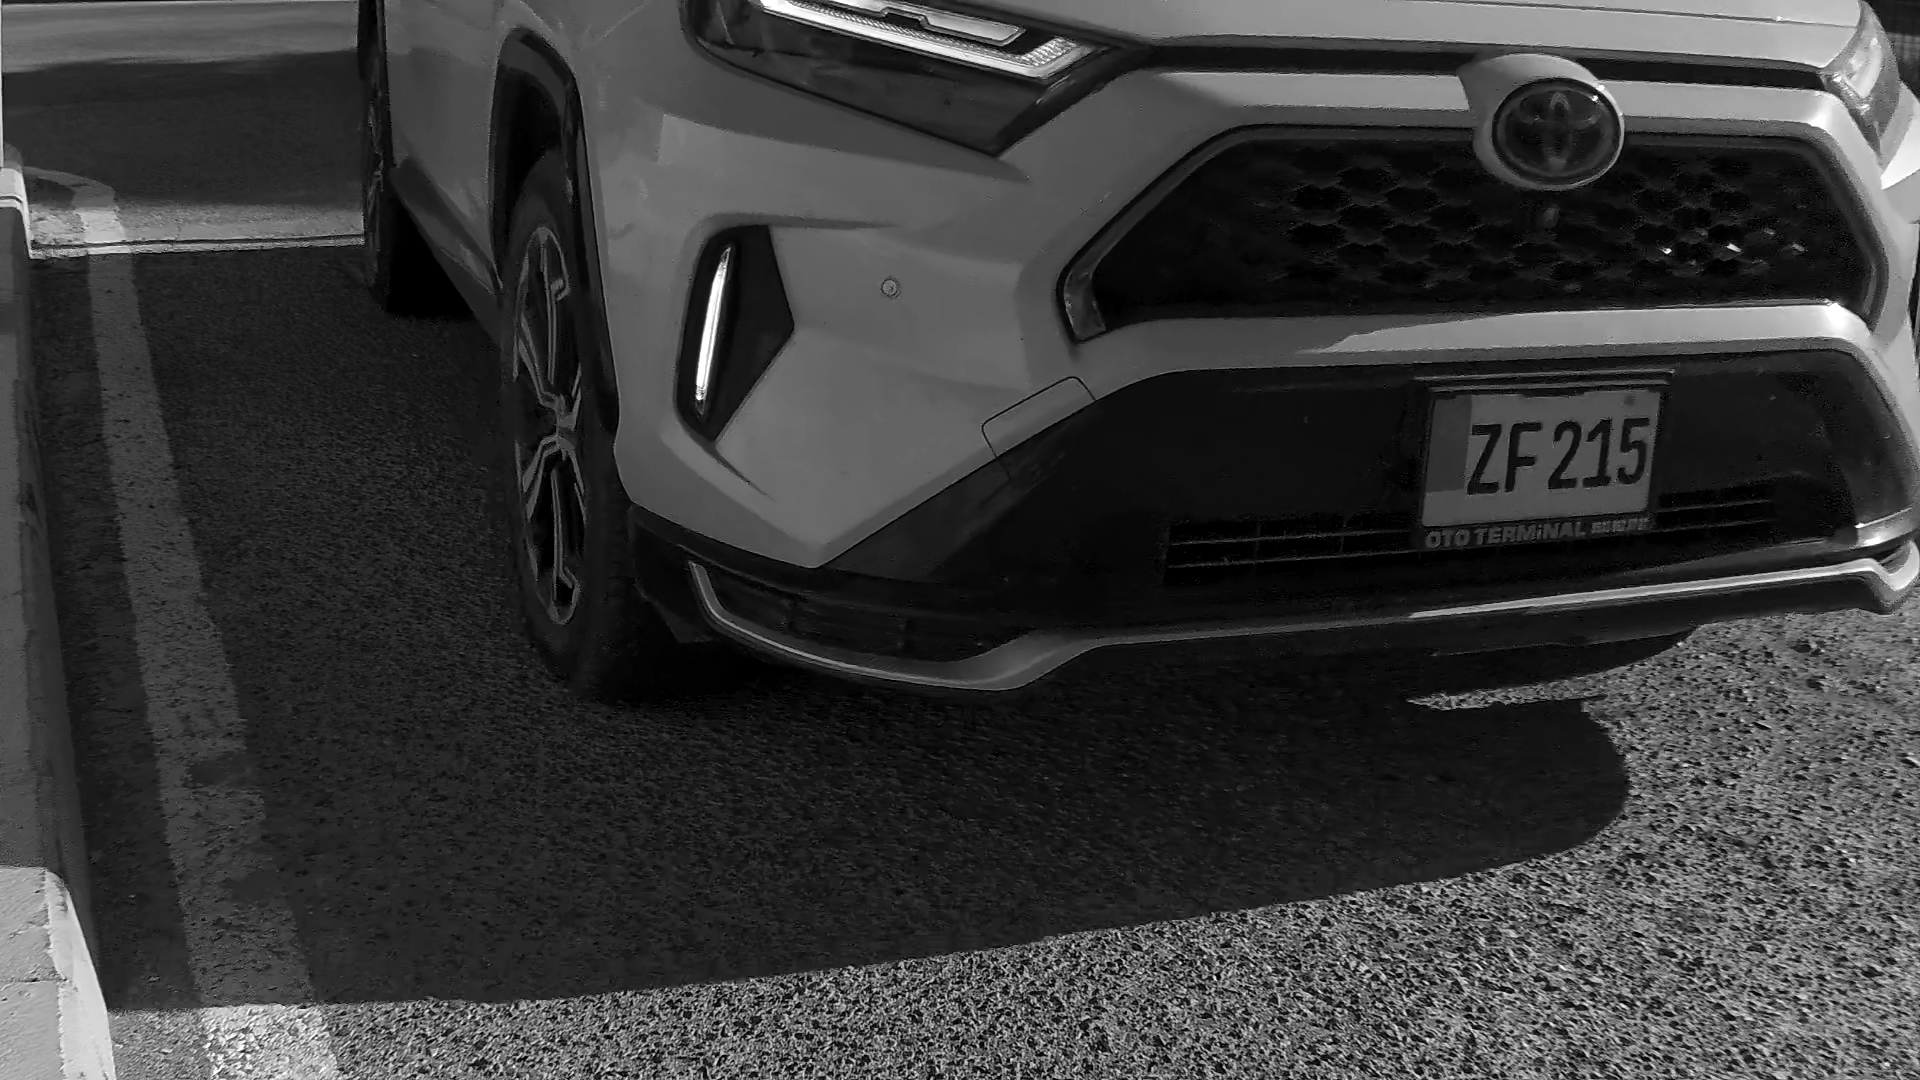
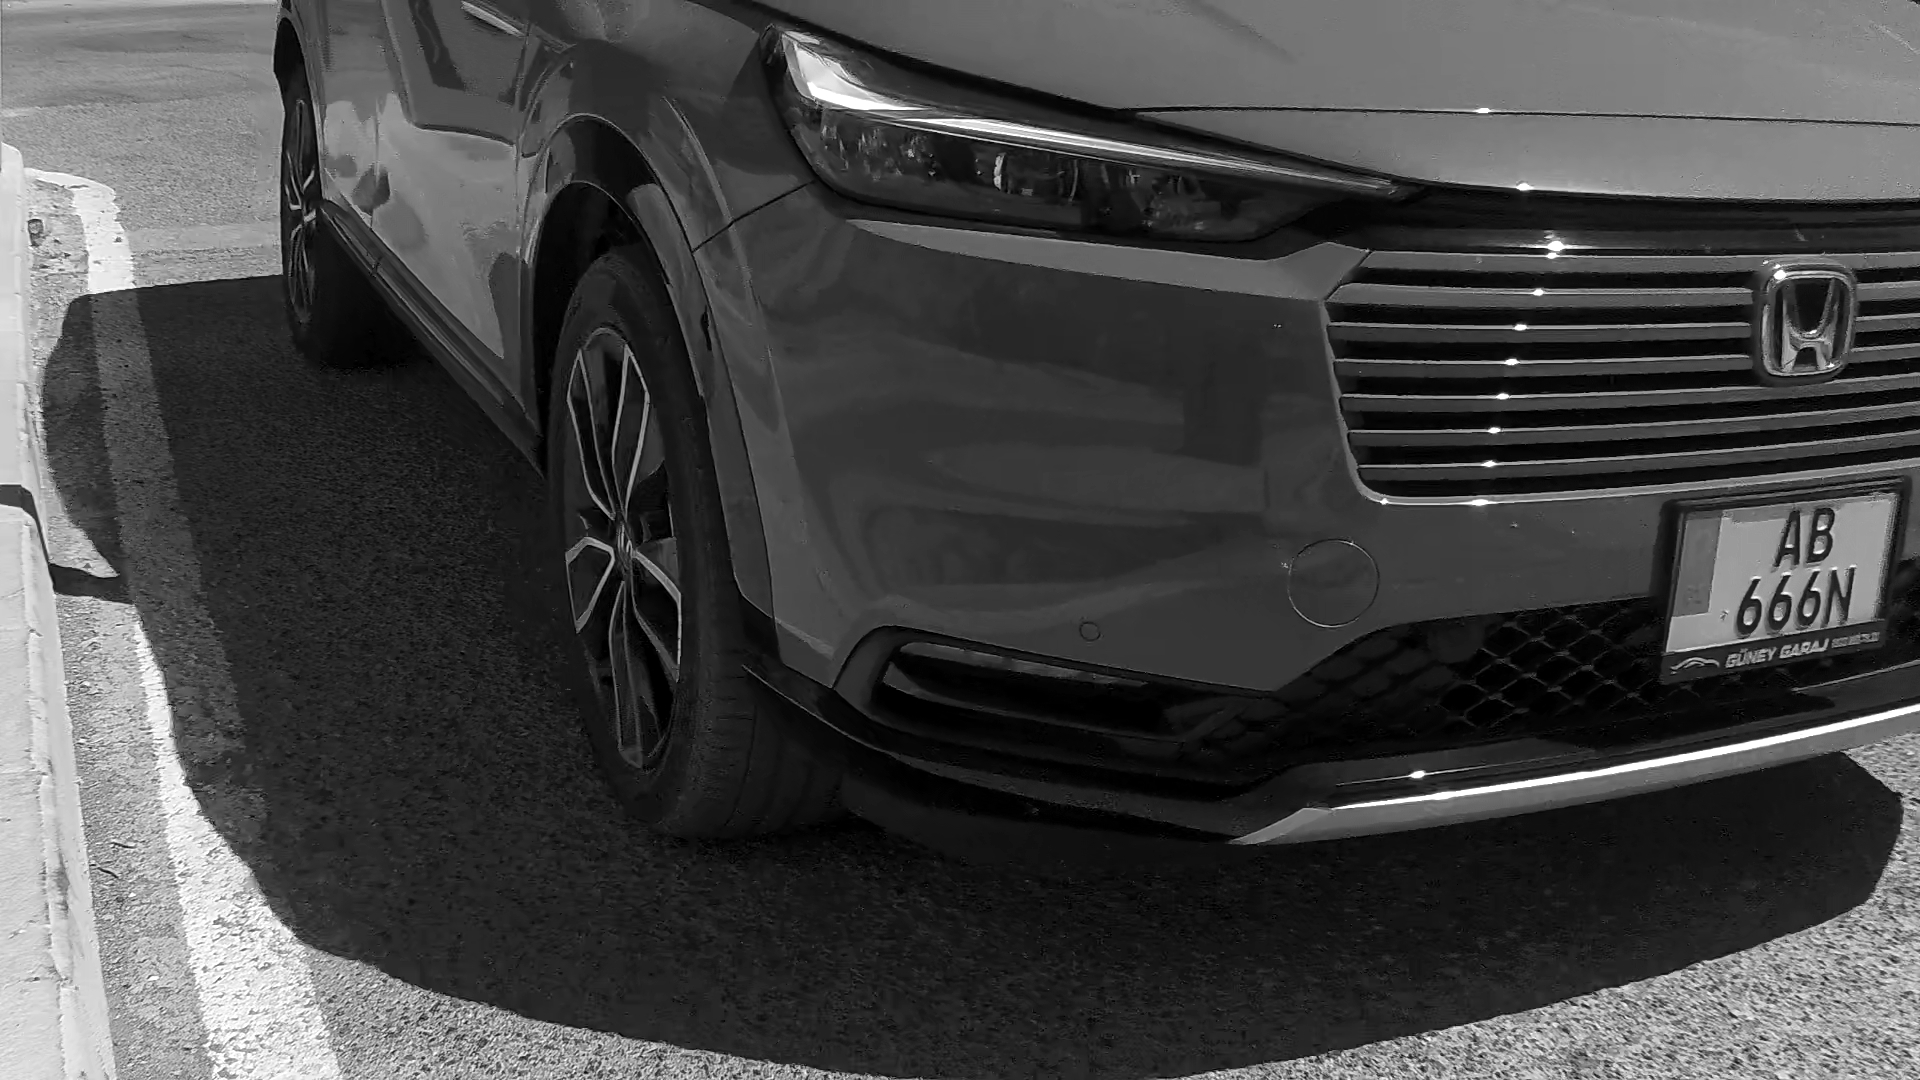
.

diff --git a/test_two_line.py b/test_two_line.py
@@ -1,5 +1,5 @@
 from pathlib import Path
-from PIL import Image
+from PIL import Image, ImageEnhance
 
 from plate_detector import detect_plate
 from parseq_reader import read_plate
@@ -17,6 +17,9 @@ OUTPUT_FOLDER.mkdir(parents=True, exist_ok=True)
 # PARSeq'e vermeden önce crop'u kaç kat büyüteceğiz?
 SCALE_FACTOR = 3
 
+# Kontrast artırma miktarı
+CONTRAST_FACTOR = 1.25
+
 
 # ============================================================
 # TEST GÖRSELLERİNİ BUL
@@ -29,7 +32,12 @@ test_images = sorted(
     ]
 )
 
+print("Kullanılan cihaz: cuda")
 print("Toplam test görüntüsü:", len(test_images))
+print()
+
+found_count = 0
+
 
 # ============================================================
 # PLAKA CROP'UNU SIKIŞTIR
@@ -45,11 +53,23 @@ def tighten_plate_crop(image):
 
     # Üstten ve alttan küçük miktarda boşluk kaldır
     top = int(height * 0.04)
-    bottom = int(height * 0.88)
+    bottom = int(height * 0.94)
 
     return image.crop(
         (left, top, right, bottom)
     )
+
+
+# ============================================================
+# KONTRASTI ARTIR
+# ============================================================
+
+def improve_contrast(image):
+
+    enhancer = ImageEnhance.Contrast(image)
+
+    return enhancer.enhance(CONTRAST_FACTOR)
+
 
 # ============================================================
 # ÇİFT SATIRI AYIR
@@ -59,7 +79,7 @@ def split_two_line_plate(image):
 
     width, height = image.size
 
-    # Şimdilik aynı şekilde ortadan bölüyoruz.
+    # Şimdilik ortadan bölüyoruz.
     middle = height // 2
 
     top = image.crop(
@@ -98,55 +118,57 @@ for image_path in test_images:
 
     image_name = image_path.name
 
-    print("\n------------------------------")
-    print("Test edilen görüntü:", image_name)
-
     # --------------------------------------------------------
     # 1. YOLO ile plakayı bul
     # --------------------------------------------------------
 
-    plate = detect_plate(str(image_path))
+    plate, confidence = detect_plate(str(image_path))
 
     if plate is None:
-        print("YOLO plakayı bulamadı.")
+        print(f"{image_path.stem} → PLAKA BULUNAMADI")
         continue
 
-    # YOLO crop
+    found_count += 1
+
+    # --------------------------------------------------------
+    # 2. YOLO crop dosyasını bul
+    # --------------------------------------------------------
+
     crop_path = Path("outputs/crops") / image_name
 
     if not crop_path.exists():
-        print("YOLO crop dosyası bulunamadı:", crop_path)
+        print(f"{image_path.stem} → CROP BULUNAMADI")
         continue
 
     image = Image.open(crop_path).convert("RGB")
 
-    print("YOLO crop boyutu:", image.size)
+    # --------------------------------------------------------
+    # 3. Gereksiz kenarları temizle
+    # --------------------------------------------------------
 
     image = tighten_plate_crop(image)
 
-    print("Daraltılmış crop boyutu:", image.size)
+    # --------------------------------------------------------
+    # 4. Kontrastı hafif artır
+    # --------------------------------------------------------
+
+    image = improve_contrast(image)
 
     # --------------------------------------------------------
-    # 2. Üst ve alt satırı ayır
+    # 5. Üst ve alt satırı ayır
     # --------------------------------------------------------
 
     top, bottom = split_two_line_plate(image)
 
-    print("Normal üst crop boyutu:", top.size)
-    print("Normal alt crop boyutu:", bottom.size)
-
     # --------------------------------------------------------
-    # 3. Crop'ları 3× büyüt
+    # 6. Crop'ları 3× büyüt
     # --------------------------------------------------------
 
     top = enlarge_image(top, SCALE_FACTOR)
     bottom = enlarge_image(bottom, SCALE_FACTOR)
 
-    print("Büyütülmüş üst crop boyutu:", top.size)
-    print("Büyütülmüş alt crop boyutu:", bottom.size)
-
     # --------------------------------------------------------
-    # 4. Büyütülmüş crop'ları kaydet
+    # 7. Büyütülmüş crop'ları kaydet
     # --------------------------------------------------------
 
     stem = image_path.stem
@@ -157,27 +179,15 @@ for image_path in test_images:
     top.save(top_path)
     bottom.save(bottom_path)
 
-    print("Üst crop:", top_path)
-    print("Alt crop:", bottom_path)
-
     # --------------------------------------------------------
-    # 5. Üst satırı PARSeq ile oku
+    # 8. PARSeq ile oku
     # --------------------------------------------------------
-
-    print("Üst satır okunuyor...")
 
     top_result = read_plate(str(top_path))
-
-    # --------------------------------------------------------
-    # 6. Alt satırı PARSeq ile oku
-    # --------------------------------------------------------
-
-    print("Alt satır okunuyor...")
-
     bottom_result = read_plate(str(bottom_path))
 
     # --------------------------------------------------------
-    # 7. Sonuçları temizle
+    # 9. Sonuçları temizle
     # --------------------------------------------------------
 
     top_result = top_result.replace(" ", "")
@@ -186,10 +196,23 @@ for image_path in test_images:
     final_result = top_result + bottom_result
 
     # --------------------------------------------------------
-    # 8. Sonuçları göster
+    # 10. Sonucu göster
     # --------------------------------------------------------
 
-    print()
-    print("Üst satır:", top_result)
-    print("Alt satır:", bottom_result)
-    print("BİRLEŞTİRİLMİŞ:", final_result)
+    print(
+        f"{image_path.stem} → {final_result}"
+        f" | YOLO confidence: {confidence:.2f}"
+    )
+
+
+# ============================================================
+# ÖZET
+# ============================================================
+
+not_found_count = len(test_images) - found_count
+
+print()
+print("--------------------------------")
+print(f"Plaka bulunan: {found_count}/{len(test_images)}")
+print(f"Plaka bulunamayan: {not_found_count}/{len(test_images)}")
+print("--------------------------------")

diff --git a/plate_detector.py b/plate_detector.py
@@ -8,25 +8,30 @@ model = YOLO("license_plate_detector.pt")
 def detect_plate(image_path):
     image = Image.open(image_path).convert("RGB")
 
-    results = model(image, conf=0.15)
+    results = model(
+        image,
+        conf=0.10,
+        imgsz=1280
+    )
     boxes = results[0].boxes
 
     if len(boxes) == 0:
-        print("0.15 confidence ile plaka bulunamadı.")
+        print("0.10 confidence ile plaka bulunamadı.")
         print("Düşük confidence ile tekrar deneniyor...")
 
         results = model(image, conf=0.05)
         boxes = results[0].boxes
 
     if len(boxes) == 0:
-        print("0.05 confidence ile de plaka bulunamadı.")
-        return None
+        return None, None
 
-    # Orijinal görüntünün kopyası
+    # --------------------------------------------------------
+    # Kutulu görüntüyü oluştur ve kaydet
+    # --------------------------------------------------------
+
     detection_image = image.copy()
     draw = ImageDraw.Draw(detection_image)
 
-    # Bütün detection'ları görsel üzerinde göster
     for box in boxes:
         x1, y1, x2, y2 = map(int, box.xyxy[0].tolist())
         confidence = box.conf[0].item()
@@ -43,28 +48,19 @@ def detect_plate(image_path):
             fill="blue"
         )
 
-    # Kutulu görüntüyü kaydet
     image_name = image_path.split("/")[-1].split("\\")[-1]
+
     detection_path = f"outputs/detections/{image_name}"
     detection_image.save(detection_path)
 
-    # YOLO'nun bulduğu bütün adayları göster
-    print("Bulunan plaka adayları:")
+    # --------------------------------------------------------
+    # Plaka adaylarını değerlendir
+    # --------------------------------------------------------
 
-    for i, box in enumerate(boxes):
-        confidence = box.conf[0].item()
-        x1, y1, x2, y2 = map(int, box.xyxy[0].tolist())
-
-        print(
-            f"Aday {i + 1}: "
-            f"confidence={confidence:.2f}, "
-            f"koordinatlar={x1} {y1} {x2} {y2}"
-        )
-
-    # Plaka adayları arasından uygun oranlı olanı seç
     candidates = []
 
     for i, box in enumerate(boxes):
+
         x1, y1, x2, y2 = box.xyxy[0].tolist()
         confidence = box.conf[0].item()
 
@@ -78,66 +74,63 @@ def detect_plate(image_path):
         area = width * height
 
         # Çok dar veya aşırı geniş kutuları ele
-        if 1.2 <= aspect_ratio <= 5.0:
-            candidates.append((i, confidence, aspect_ratio, area))
+        if 2.0 <= aspect_ratio <= 5.0:
+            candidates.append(
+                (i, confidence, aspect_ratio, area)
+            )
+
+    # --------------------------------------------------------
+    # En uygun adayı seç
+    # --------------------------------------------------------
 
     if candidates:
-       # en büyük adayın alanını bul
-       max_area = max(
-           candidate[3]
-           for candidate in candidates
-       )
 
-       scored_candidates = []
-
-       for i, confidence, aspect_ratio, area in candidates:
-
-           # büyük gereksiz kutulara küçük bir ceza 
-           area_ratio = area / max_area
-
-           score = (
-               confidence * 0.7
-                 + (1 - area_ratio) * 0.3
-           )
-
-           scored_candidates.append(
-               (i, confidence, aspect_ratio, area, score)
-           )
-
-
-       # Uygun oranlı adaylar içinde confidence en yüksek olanı seç
-       best_index, confidence, aspect_ratio, area, score = max(
-           scored_candidates,
-           key=lambda x: x[4]
+        max_area = max(
+            candidate[3]
+            for candidate in candidates
         )
 
-       print(
-           f"Seçim skoru: {score:.3f}, "
-           f"aspect ratio: {aspect_ratio:.2f},"
-           f"alan: {area:.0f}"
-       )
-       
+        scored_candidates = []
+
+        for i, confidence, aspect_ratio, area in candidates:
+
+            area_ratio = area / max_area
+
+            score = (
+                confidence * 0.6
+                + (1 - area_ratio) * 0.4
+            )
+
+            scored_candidates.append(
+                (i, confidence, aspect_ratio, area, score)
+            )
+
+        best_index, confidence, aspect_ratio, area, score = max(
+            scored_candidates,
+            key=lambda x: x[4]
+        )
+
     else:
-        # Hiçbiri uygun değilse eski yönteme dön
+
         best_index = boxes.conf.argmax().item()
         confidence = boxes.conf[best_index].item()
-        aspect_ratio = None
+
+    # --------------------------------------------------------
+    # Plaka crop
+    # --------------------------------------------------------
 
     x1, y1, x2, y2 = boxes.xyxy[best_index].tolist()
 
-    x1, y1, x2, y2 = map(int, (x1, y1, x2, y2))
+    x1, y1, x2, y2 = map(
+        int,
+        (x1, y1, x2, y2)
+    )
 
-    # Plakayı otomatik crop et
-    plate_crop = image.crop((x1, y1, x2, y2))
+    plate_crop = image.crop(
+        (x1, y1, x2, y2)
+    )
 
-    # Crop'u görüntünün adıyla kaydet
     crop_path = f"outputs/crops/{image_name}"
     plate_crop.save(crop_path)
 
-    print("Plaka bulundu.")
-    print(f"Seçilen plaka confidence: {confidence:.2f}")
-    print("Koordinatlar:", x1, y1, x2, y2)
-    print("Kutulu görüntü:", detection_path)
-    print("Crop:", crop_path)
-
-    return plate_crop
+    return plate_crop, confidence
